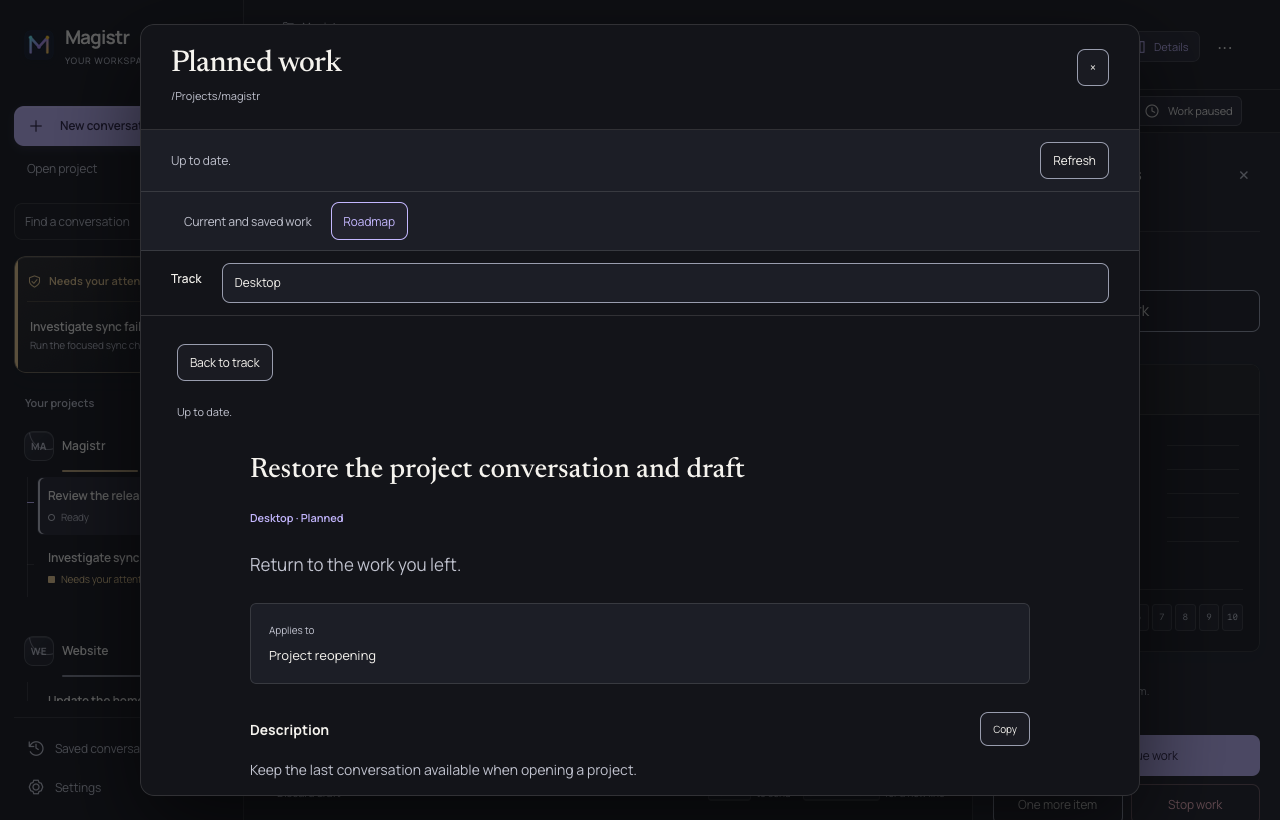
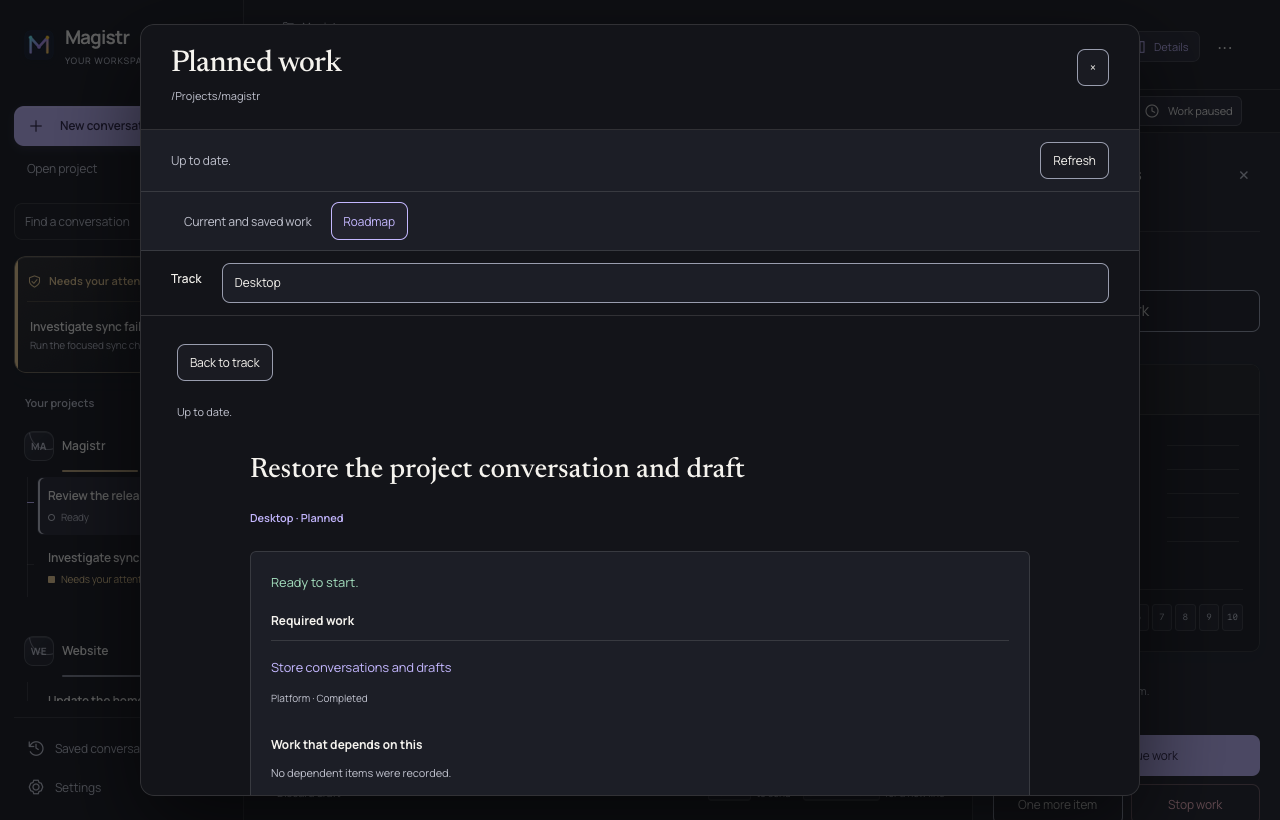
feat(desktop): navigate roadmap prerequisites and dependents

Changed region(s): [[0.1875, 0.6707, 0.375, 0.8537], [0.1875, 0.8841, 0.5, 0.9451], [0.7812, 0.8841, 0.8125, 0.9146]]

diff --git a/crates/magistr-desktop/ui/work_browser.css b/crates/magistr-desktop/ui/work_browser.css
@@ -69,6 +69,13 @@
 .roadmap-requirements{margin-top:28px}.roadmap-requirements ol{padding-left:22px}.roadmap-requirements li{margin-block:14px}
 .roadmap-checklist{padding-left:18px}.roadmap-checklist li{font-size:14px;line-height:1.8;white-space:pre-wrap}
 .roadmap-checklist-state{display:inline-block;font-size:10px;border:1px solid var(--separator);padding:2px 5px;margin-right:8px;color:var(--muted);border-radius:4px}
+.roadmap-relations{margin:24px 0;padding:20px;background:var(--panel);border:1px solid var(--separator);border-radius:6px}
+.roadmap-relations h4{font-size:12px;margin:18px 0 10px}.roadmap-relations ul{list-style:none;padding:0;margin:0}
+.roadmap-relations li{margin:10px 0;padding:10px 0;border-top:1px solid var(--separator);font-size:12px}
+.roadmap-relations button{text-align:left;background:transparent;border:0;color:var(--accent);padding:0;font-size:13px;line-height:1.7;white-space:pre-wrap}
+.roadmap-relations button:hover{text-decoration:underline}.roadmap-relation-state{display:block;color:var(--muted);font-size:10px;margin-top:6px}
+.roadmap-readiness{font-size:13px;line-height:1.6;color:var(--warning);margin:0}.roadmap-readiness[data-ready=true]{color:var(--success)}
+.roadmap-relation-empty{font-size:11px;color:var(--muted)}.roadmap-relations [data-available=false]{color:var(--warning)}
 .work-record-empty{padding:28px;color:var(--muted)}
 #browse-work{width:100%;margin-bottom:16px}
 @media(max-width:800px){#work-browser{width:calc(100vw - 24px);max-height:calc(100dvh - 24px)}.work-browser-heading{padding:18px 22px}.work-browser-tools{padding:10px 22px}.work-browser-tabs{display:flex;gap:6px;padding:10px 30px;border-bottom:1px solid var(--separator);flex-shrink:0;background:var(--panel);overflow-x:auto}

diff --git a/crates/magistr-desktop/src/roadmap_item.rs b/crates/magistr-desktop/src/roadmap_item.rs
@@ -1,7 +1,10 @@
 //! Complete selected roadmap records with expendable safe text presentation.
 use crate::{commands::DesktopState, document::Document};
 use magistr_domain::identity::SessionAddress;
-use magistr_workflow_contracts::{ReadState, RoadmapData, roadmap::Chunk};
+use magistr_workflow_contracts::roadmap::{
+    Chunk, ChunkStatus, WorkstreamReadiness, workstream_frontier,
+};
+use magistr_workflow_contracts::{ReadState, RoadmapData};
 use serde::Serialize;
 
 #[derive(Serialize)]
@@ -11,10 +14,45 @@ pub(crate) struct RoadmapItem {
     notes: Document,
     requirements: Vec<Document>,
     sections: Vec<Document>,
+    readiness: WorkstreamReadiness,
+    dependencies: Vec<Relation>,
+    dependents: Vec<Relation>,
+}
+#[derive(Serialize)]
+struct Relation {
+    id: String,
+    title: Option<String>,
+    status: Option<ChunkStatus>,
+    group: Option<String>,
 }
 impl RoadmapItem {
-    fn new(record: Chunk) -> Self {
+    fn new(record: Chunk, records: &[Chunk]) -> Self {
+        let by_id: std::collections::BTreeMap<_, _> = records
+            .iter()
+            .map(|item| (item.id.as_str(), item))
+            .collect();
+        let resolve = |id: &str| {
+            let item = by_id.get(id);
+            Relation {
+                id: id.into(),
+                title: item.map(|item| item.title.clone()),
+                status: item.map(|item| item.status),
+                group: item.and_then(|item| item.group.clone()),
+            }
+        };
+        let readiness = workstream_frontier(records, record.group.as_deref())
+            .items
+            .into_iter()
+            .find(|item| item.id == record.id)
+            .map_or(WorkstreamReadiness::Inactive, |item| item.readiness);
         Self {
+            readiness,
+            dependencies: record.deps.iter().map(|id| resolve(id)).collect(),
+            dependents: records
+                .iter()
+                .filter(|item| item.deps.contains(&record.id))
+                .map(|item| resolve(&item.id))
+                .collect(),
             description: Document::parse(&record.description),
             notes: Document::parse(&record.notes),
             requirements: record
@@ -47,7 +85,7 @@ fn selected(read: &ReadState<RoadmapData>, id: &str) -> ReadState<Option<Roadmap
             .iter()
             .find(|record| record.id == id)
             .cloned()
-            .map(RoadmapItem::new)
+            .map(|record| RoadmapItem::new(record, &data.chunks))
     })
 }
 #[tauri::command]

diff --git a/crates/magistr-desktop/src/roadmap_item.tests.rs b/crates/magistr-desktop/src/roadmap_item.tests.rs
@@ -58,8 +58,35 @@ fn item_read_preserves_complete_authored_fields_and_missing_or_stale_state() {
 fn rich_presentation_limits_keep_all_original_source() {
     let mut chunk = fixtures::chunk("large");
     chunk.description = "- Full line\n".repeat(5000);
-    let view = RoadmapItem::new(chunk.clone());
+    let view = RoadmapItem::new(chunk.clone(), std::slice::from_ref(&chunk));
     assert!(view.description.limited);
     assert_eq!(view.description.nodes[0].text, chunk.description);
     assert_eq!(view.record.description, chunk.description);
+}
+
+#[test]
+fn relations_resolve_the_complete_graph_and_keep_missing_records_explicit() {
+    let mut chosen = fixtures::chunk("chosen");
+    chosen.group = Some("Desktop".into());
+    chosen.deps = vec!["foundation".into(), "missing".into()];
+    let mut foundation = fixtures::chunk("foundation");
+    foundation.group = Some("Platform".into());
+    foundation.status = ChunkStatus::Done;
+    let mut dependent = fixtures::chunk("dependent");
+    dependent.group = Some("Delivery".into());
+    dependent.deps = vec!["chosen".into()];
+    let records = vec![chosen.clone(), foundation.clone(), dependent];
+    let item = RoadmapItem::new(chosen, &records);
+    assert!(
+        matches!(&item.readiness, WorkstreamReadiness::Waiting { dependencies }
+        if dependencies.len() == 1 && dependencies[0].id == "missing")
+    );
+    assert_eq!(item.dependencies.len(), 2);
+    assert_eq!(item.dependencies[0].title.as_ref(), Some(&foundation.title));
+    assert_eq!(item.dependencies[0].status, Some(ChunkStatus::Done));
+    assert_eq!(item.dependencies[0].group.as_deref(), Some("Platform"));
+    assert!(item.dependencies[1].title.is_none());
+    assert!(item.dependencies[1].status.is_none());
+    assert_eq!(item.dependents[0].id, "dependent");
+    assert_eq!(item.dependents[0].group.as_deref(), Some("Delivery"));
 }

diff --git a/docs/architecture/desktop.md b/docs/architecture/desktop.md
@@ -153,6 +153,8 @@ only a validated URL and never an application or path. The lockfile adds 21
 packages: parser/unicase, opener/open and platform detection, plus Linux DBus
 and supporting packages. Existing locked versions are unchanged.
 
+Roadmap detail reads resolve prerequisites and dependents from the same complete native graph. Shared workflow policy supplies readiness, including missing and cross-track requirements. Local navigation retains at most 64 item identities and reading positions, then returns to the originating track; it stores no second roadmap.
+
 ## Interface
 
 The desktop has an authored visual system: ink and ivory materials, optical typography, distinct document and instrument compositions, and dimensional graphics grounded in current data. This direction follows the owner’s request for substantial design work, including shaders. Use hierarchy, alignment and space to connect each surface to its purpose; borders, accent marks and depth distinguish actual selection, requests, editable documents and measured instruments. Color always accompanies readable text or shape. Bundle Manrope for controls and body text, Newsreader for display headings and quotations, and use system monospace for source and paths. The Latin variable fonts and their SIL licenses are local assets; other scripts use the system fallback. Font loading swaps into the same native text layout without a network request. Inspect rendered dark, light and compact views whenever the system changes.

diff --git a/docs/reference/cockpit-modules.md b/docs/reference/cockpit-modules.md
@@ -33,6 +33,7 @@ desktop workspace. Companion Rust tests live beside their owners.
 - `crates/magistr-desktop/src/roadmap.rs` — desktop wire shape of shared roadmap projections.
 - `crates/magistr-desktop/src/roadmap_item.rs` — selected complete roadmap records and safe rich documents.
 - `crates/magistr-desktop/ui/work_item.mjs` — addressed item reader, full authored details and return navigation.
+- `crates/magistr-desktop/ui/work_relations.mjs` — complete dependency/dependent navigation and owner readiness.
 - `crates/magistr-desktop/ui/work_roadmap.mjs` — track selection and owner-provided readiness.
 - `crates/magistr-desktop/ui/work_tabs.mjs` — accessible work-view tab navigation.
 - `crates/magistr-desktop/ui/work_browser.mjs` — refresh, address guards and current-plan reading.
